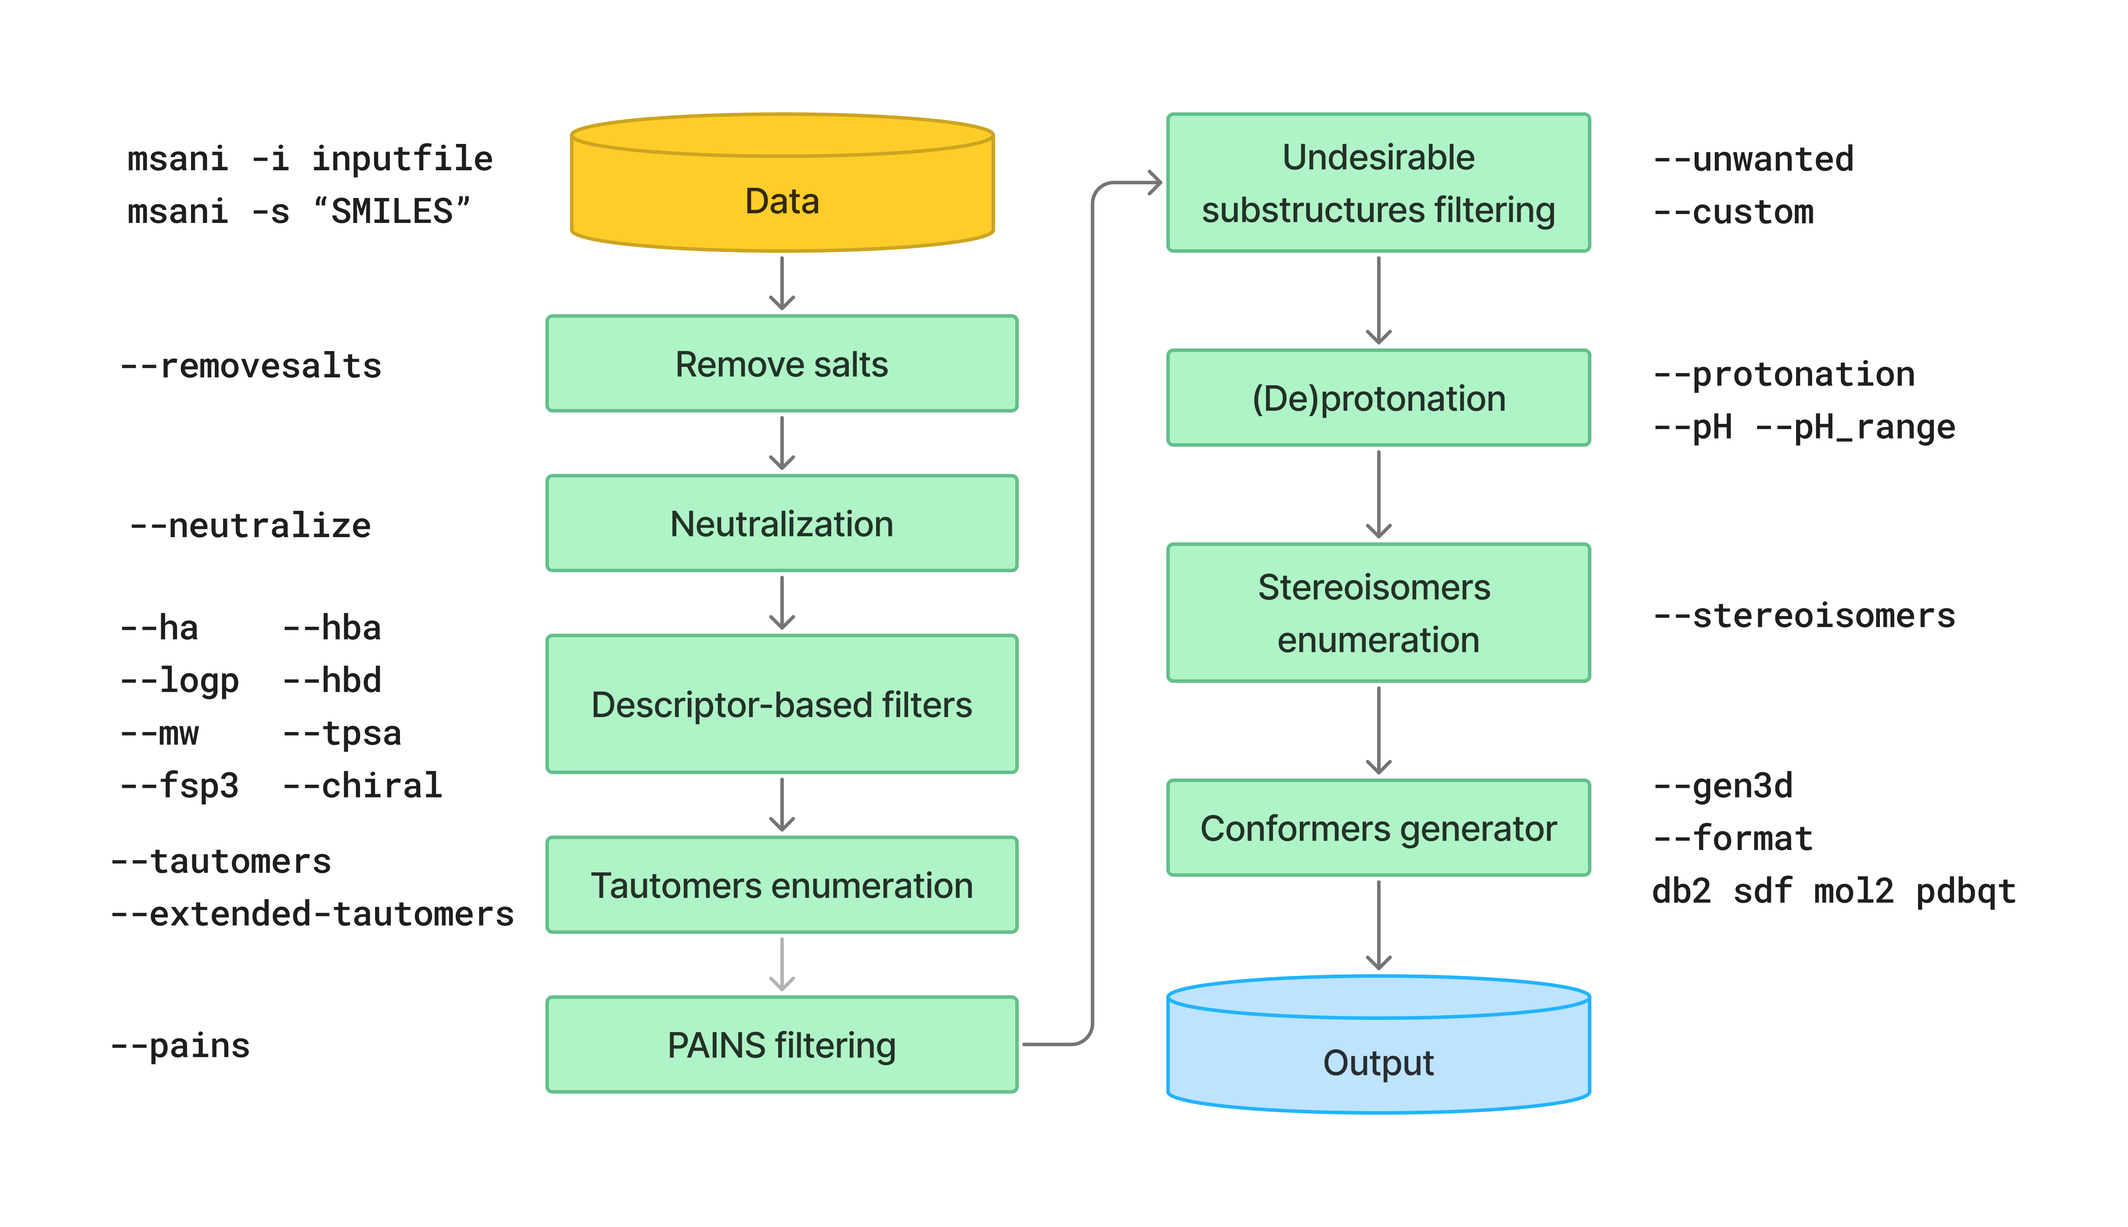
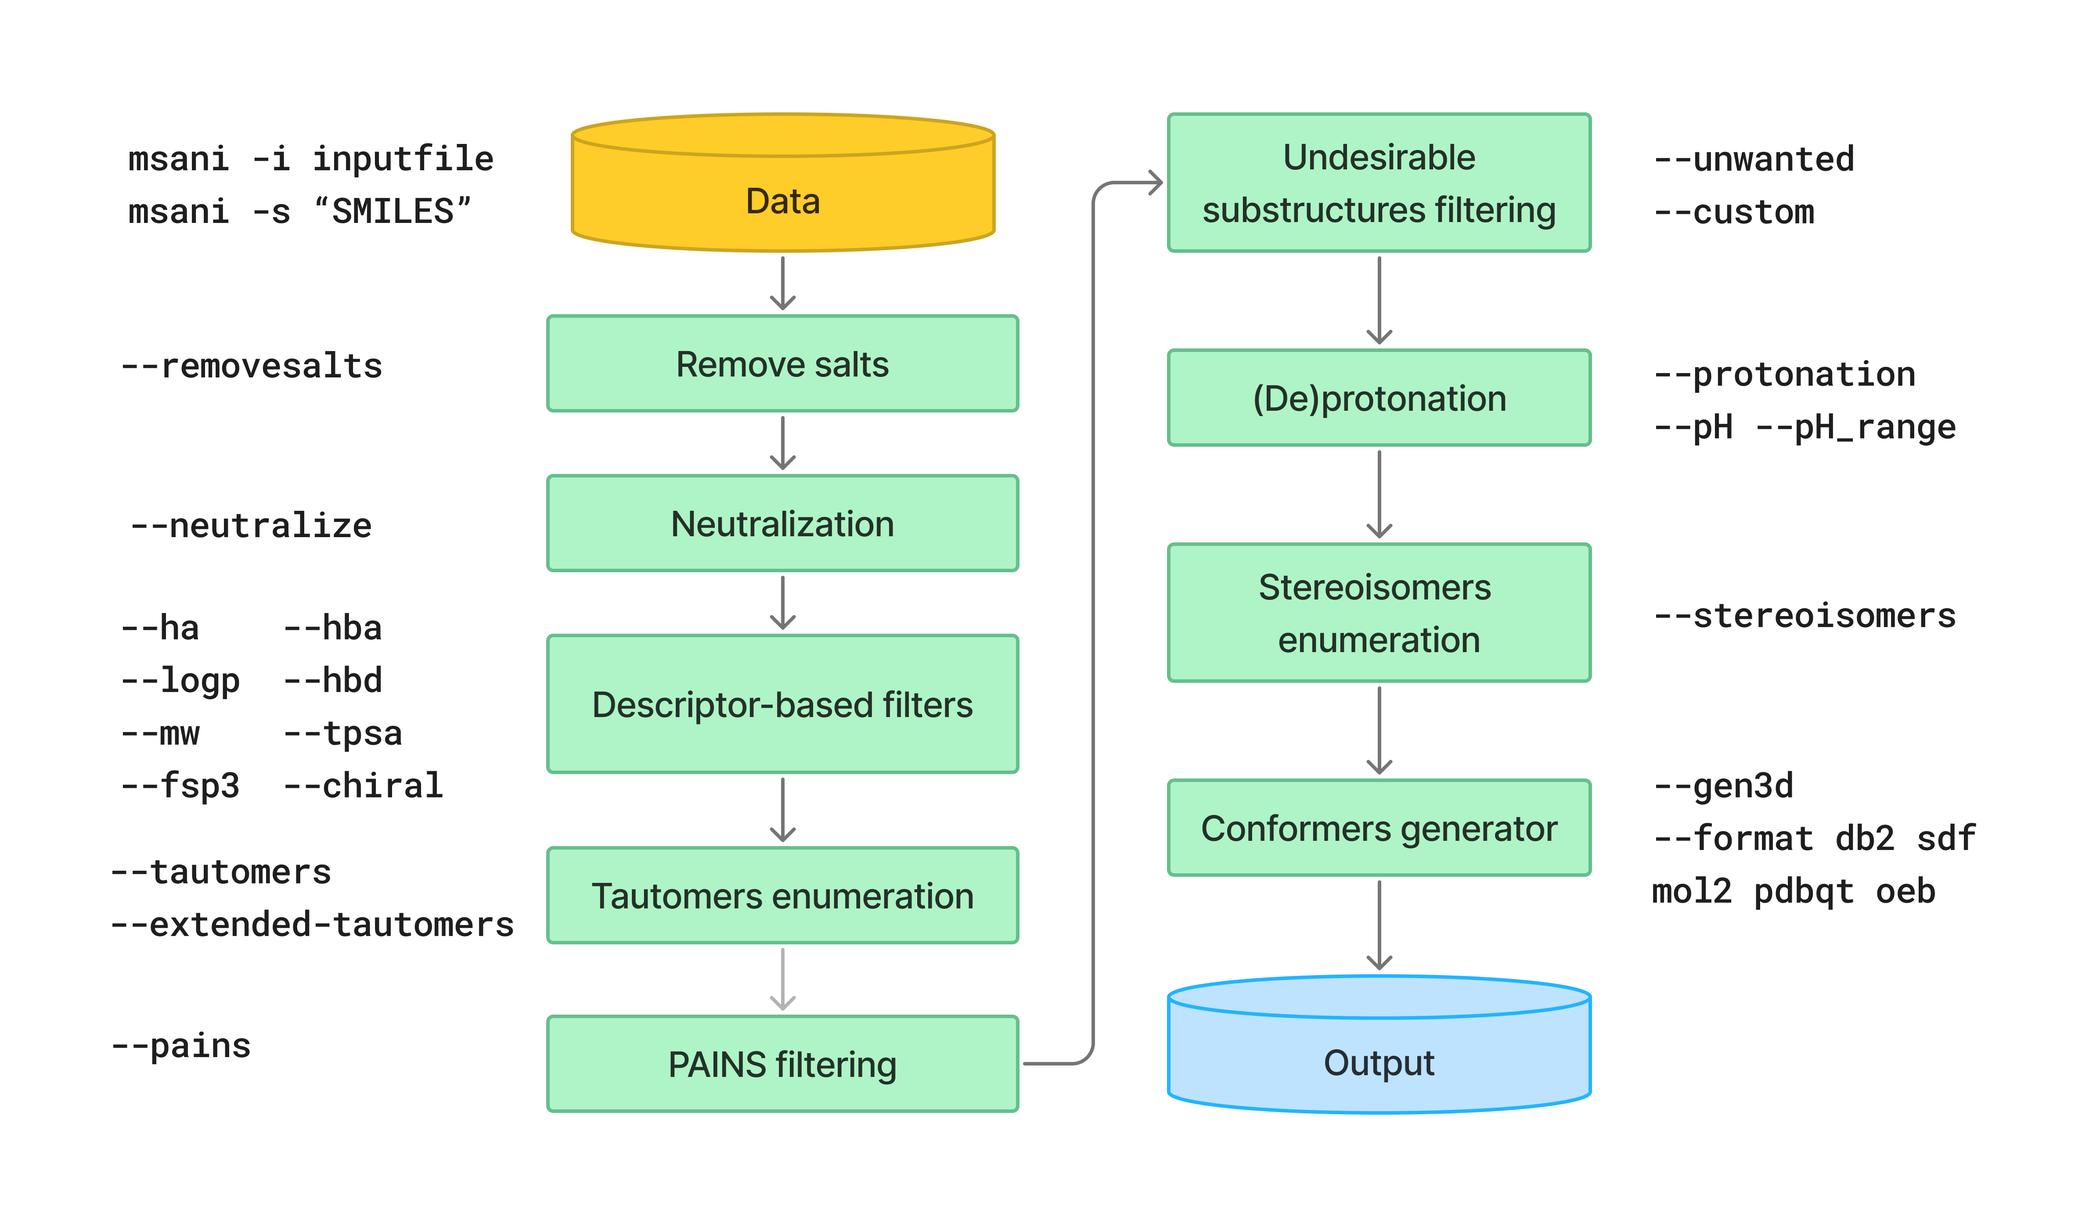
docs: update README and documentation for OpenEye support and new output formats. Update new protonation rules

diff --git a/msani/conformers/oebwriter.py b/msani/conformers/oebwriter.py
@@ -3,9 +3,9 @@
 Why this exists
 ---------------
 MolSanitizer already covers db2 (UCSF DOCK), pdbqt (AutoDock/Vina) and the
-generic sdf/mol2 formats. The one docking format still missing is OpenEye's
-binary .oeb.gz, which is what FRED and HYBRID read fastest. Adding it means a
-single msani pass can feed DOCK, AutoDock/Vina and OpenEye docking from the
+generic sdf/mol2 formats. This writer adds OpenEye's binary .oeb.gz for
+FRED and HYBRID, so a single msani pass can feed DOCK, AutoDock/Vina and
+OpenEye docking from the
 same sanitized library, with no per-user conversion step in between.
 
 What it does
@@ -27,8 +27,9 @@ Output layout
                       what FRED and HYBRID take as their database (the same
                       relation db2.tgz has to db2)
 
-Either way the ring-conformer groups of a molecule are merged into a single
-OEMol, so every ligand is one record and docks to one result.
+In both formats, compatible ring-conformer groups are merged into a single
+OEMol. Groups that fail the atom-count or atomic-number-order checks are kept
+as separate records.
 
 Licensing
 ---------

diff --git a/msani/conformers/conformers.py b/msani/conformers/conformers.py
@@ -1154,8 +1154,8 @@ class ConformerGenerator:
         """
         Write the conformers as ONE multi-conformer OpenEye OEMol.
 
-        The ring-conformer groups are merged, so the molecule is a single record
-        and FRED/HYBRID dock it to a single result. Needs the optional OpenEye
+        Compatible ring-conformer groups are merged into a single record. Groups
+        that fail the writer's compatibility checks remain separate records. Needs the optional OpenEye
         toolkits and a licence (OE_LICENSE).
 
         Args:

diff --git a/docs/source/usage.rst b/docs/source/usage.rst
@@ -102,7 +102,7 @@ Help message
 
     usage: msani [--input_files INPUT_FILES [INPUT_FILES ...]] [--input_list INPUT_LIST] [--smiles SMILES [SMILES ...]] [--extended] [--prefix PREFIX] [--synthon] [--removesalts] [--create_custom] [--custom CUSTOM]
                 [--unwanted [{all,regular,special,optional} ...]] [--pains] [--neutralize | --no-neutralize | -neu] [--stereoisomers | --no-stereoisomers | -st] [--max_isomers MAX_ISOMERS] [--stereo_timeout STEREO_TIMEOUT] [--tautomers]
-                [--extended-tautomers] [--protonation] [--pH PH] [--pH_range PH_RANGE] [--standardize] [--gen3d] [--format [{db2,db2.tgz,pdbqt,sdf,mol2} ...]] [--method {rdkit,obabel,corina}] [--corinaPath CORINAPATH]
+                [--extended-tautomers] [--protonation] [--pH PH] [--pH_range PH_RANGE] [--standardize] [--gen3d] [--format [{db2,db2.tgz,pdbqt,sdf,mol2,oeb,oeb.lib} ...]] [--method {rdkit,obabel,corina}] [--corinaPath CORINAPATH]
                 [--numconfs NUMCONFS] [--timeout TIMEOUT] [--energywindow ENERGYWINDOW] [--nringconfs NRINGCONFS] [--mode {fixed,random,ignoretorlib}] [--allowNonring] [--rmsd RMSD] [--config CONFIG] [--create_config] [--lazy]
                 [--numcores NUMCORES] [--help] [--help_advanced] [--version]
 
@@ -156,7 +156,9 @@ Help message
     Generate 3D conformers options:
     --gen3d, -3d          Generate 3D conformers
     --format, -f          Output file format. Multiple formats simultaneously supported.
-                            (Default: db2.tgz - Options: sdf, db2, db2.tgz, mol2, pdbqt.)
+                            (Default: db2.tgz - Options: sdf, db2, db2.tgz, mol2, pdbqt, oeb, oeb.lib.)
+                            oeb: one .oeb.gz per molecule; oeb.lib: one library per input file.
+                            Both need the optional OpenEye toolkits and OE_LICENSE.
     --method, -m          Embedding method (default: rdkit - options: rdkit, obabel, corina)
     --corinaPath          Path to the CORINA executable 
     --numconfs, -nconfs   Maximum number of conformers to generate (default: 2000)
@@ -365,7 +367,9 @@ The following supported flags:
     Generate 3D conformers options:
     --gen3d, -3d          Generate 3D conformers
     --format, -f          Output file format. Multiple formats simultaneously supported.
-                            (Default: db2.tgz - Options: sdf, db2, db2.tgz, mol2, pdbqt.)
+                            (Default: db2.tgz - Options: sdf, db2, db2.tgz, mol2, pdbqt, oeb, oeb.lib.)
+                            oeb: one .oeb.gz per molecule; oeb.lib: one library per input file.
+                            Both need the optional OpenEye toolkits and OE_LICENSE.
     --method, -m          Embedding method (default: rdkit - options: rdkit, obabel, corina)
     --numconfs, -nconfs   Maximum number of conformers to generate (default: 2000)
     --timeout, -to        Timeout for the initial embedding for each entry before using OpenBabel
@@ -395,7 +399,12 @@ Three sampling modes are supported (``--mode`` or ``-mode`` flag):
 * ignoretorlib: the program will ignore the TorsionLibrary and sample every 30 degrees.
 
 
-Multiple output formats are now supported, including DB2, PDBQT, SDF, and MOL2. The default output format is DB2, which could be modified by the ``--format`` or ``-f`` flag. Multiple formats at the same time is supported.
+Supported output formats are ``db2``, ``db2.tgz``, ``pdbqt``, ``sdf``, ``mol2``,
+``oeb``, and ``oeb.lib``. The default is the compressed DB2 archive
+``db2.tgz``. Select one or more formats with ``--format`` or ``-f``.
+PDBQT requires the optional Meeko dependencies; both OEB formats require
+the optional OpenEye toolkits and a valid licence (see :doc:`installation`).
+See :doc:`outputs` for OEB record grouping, file naming, and restart behavior.
 
 For DB2 generation, AMSOLcpp assigns desolvation penalties and partial charges
 directly from the in-memory RDKit molecule. These values are passed directly to

diff --git a/docs/source/outputs.rst b/docs/source/outputs.rst
@@ -23,6 +23,10 @@ Outputs are written relative to the working directory. For a plain input named
        Multiple ring conformations may add an ``.nr`` suffix.
    * - ``db2/example.db2.tgz``
      - DB2 archive when ``--format db2.tgz`` is selected (the default 3D format).
+   * - ``oeb/<molecule ID>.oeb.gz``
+     - Per-molecule multi-conformer output with ``--format oeb``.
+   * - ``oeb/example.oeb.gz``
+     - Multi-molecule library with ``--format oeb.lib``.
    * - ``msani.log``
      - Execution log; ``--prefix run1`` changes the log name to ``run1.log``.
    * - ``msani_error.err``
@@ -39,6 +43,23 @@ Tautomer/protomer expansion appends underscore indices, for example ``mol_1``
 and ``mol_2``. Stereoisomer enumeration appends dot indices, such as ``mol_1.1``
 and ``mol_1.2``. Larger expansions use zero-padded indices. Use unique input IDs
 so per-molecule files do not collide, and keep the input to trace derived IDs.
+
+OpenEye records and naming
+--------------------------
+
+Both OEB formats export sampled conformers. Ring-conformer groups are normally
+merged into one multi-conformer ``OEMol`` per prepared molecule, titled with
+its identifier, rather than separate records for each conformer. Groups that
+fail the writer's atom-count or atomic-number-order checks are retained as
+separate records. Distinct prepared tautomers, protomers, and stereoisomers
+remain separate molecules.
+
+The library filename uses the input basename with its final extension removed:
+``example.smi`` produces ``oeb/example.oeb.gz`` and ``example.smi.gz`` produces
+``oeb/example.smi.oeb.gz``. ``--prefix`` does not rename this library.
+When requesting both ``oeb`` and ``oeb.lib``, ensure no prepared molecule ID
+matches that input basename: both formats use the same directory and extension,
+so their files would collide. Use separate working directories if necessary.
 
 Rejected and failed molecules
 -----------------------------
@@ -61,6 +82,10 @@ Common problems
   when appropriate for your project.
 * **Missing PDBQT output:** install ``molsanitizer[pdbqt]`` in the environment
   running the command and inspect the molecule's error message.
+* **Missing OEB output:** install ``molsanitizer[oe]`` in the environment
+  running the command and set ``OE_LICENSE`` to a valid licence file. Missing
+  toolkits and an unlicensed OEChem installation produce distinct errors.
+  Inspect the execution log and ``msani_error.err`` for details.
 * **Embedding timeout:** ``--timeout`` is measured in minutes (default 2).
   When RDKit embedding times out, MolSanitizer tries Open Babel. If Open Babel
   is unavailable or the fallback fails, the reason is recorded and processing
@@ -83,6 +108,20 @@ DB2 members and skip their molecule IDs. This supports restarting interrupted
 work with the same inputs and settings. An unreadable archive is logged and
 processing starts fresh. Use a separate directory for a new preparation rather
 than reusing an old archive with changed settings.
+
+For file input with ``oeb.lib``, an existing library is moved aside and its
+records are copied back before new molecules are added. This retains records
+across input chunks and supports reruns with the same input and settings.
+Restored molecule titles are used to avoid adding those molecules again; use
+unique IDs. With only ``oeb.lib`` selected, restored molecules skip conformer
+generation. With other formats selected, they may still be processed for those
+outputs. This is not a guarantee of recovery from a corrupt or partially
+written library; keep a backup of valuable output before retrying.
+
+When ``db2.tgz`` and ``oeb.lib`` are requested together, IDs already restored
+from the DB2 archive skip all processing, including OEB output. A rerun therefore
+does not repair an OEB library missing those IDs. Regenerate in a fresh directory
+if the two outputs are inconsistent.
 
 SLURM batch recovery
 --------------------

diff --git a/README.md b/README.md
@@ -1,9 +1,9 @@
 # MolSanitizer - A package to prepare SMILES databases
-[![python](https://img.shields.io/badge/python-v3.10--3.12-blue)]()
+[![python](https://img.shields.io/badge/python-v3.10--3.14-blue)]()
 [![anaconda](https://img.shields.io/badge/Anaconda.org-2.1.0-green.svg?style=flat-square)](https://docs.anaconda.com/anaconda/install/index.html)
 [![Documentation](https://img.shields.io/badge/documentations-orange)](https://msani.readthedocs.io/)
 ![GitHub forks](https://img.shields.io/github/forks/:user/:repo)
-[![license](https://img.shields.io/badge/license-GPLv2-yellow)](LICENSE)
+[![license](https://img.shields.io/badge/license-Apache2-yellow)](LICENSE)
 
 
 MolSanitizer is a package for preparation (remove salts, stereoisomers enumeration, protonation, ...) and filtering undesirable substructures (PAINS, reactive functional groups, ...) for drug discovery projects.
@@ -29,12 +29,22 @@ Meeko is optional and is needed only for PDBQT output. Install it with:
 The OpenEye toolkits are optional and are needed only for OEB output, the
 multi-conformer format OpenEye docking (FRED/HYBRID) reads directly. `--format
 oeb` writes one `.oeb.gz` per molecule; `--format oeb.lib` writes one `.oeb.gz`
-library per input file, ready to be used as a docking database. Either way each
-molecule is a single record carrying all of its conformers. Install the extra
+library per input file, ready to be used as a docking database. Both formats
+normally merge each molecule's ring-conformer groups into one
+multi-conformer record; groups that fail the writer's compatibility checks
+remain separate records. Install the extra
 and point OE_LICENSE at your own licence file:
 
     pip install -e "MolSanitizer[oe]"
     export OE_LICENSE=/path/to/oe_license.txt
+
+For example, generate a docking library with:
+
+    msani -i example.smi --gen3d --format oeb.lib
+
+This writes `oeb/example.oeb.gz`; `--format oeb` instead writes
+`oeb/<molecule ID>.oeb.gz`. See the [output documentation](https://msani.readthedocs.io/en/latest/outputs.html)
+for restart behavior and naming constraints when combining these formats.
 
 Open Babel is also optional. It is used only when selected as the embedding
 method or as a fallback after an RDKit embedding timeout. If that fallback is

diff --git a/docs/source/python.rst b/docs/source/python.rst
@@ -142,7 +142,7 @@ ConformerGenerator
 
 The **ConformerGenerator** class is responsible for generating conformers of molecules. It provides methods to generate conformers from a SMILES string, from RDKit Mol object, or a DataFrame. The conformer generation process can be customized by specifying the number of conformers to generate and the conformer generation method to use.
 
-Two main steps are involved, first, initial embedding of the molecule (generate 3D), then torsional sampling. Finally, the conformers can be saved in various formats such as PDBQT, SDF, MOL2, or DB2.
+Two main steps are involved, first, initial embedding of the molecule (generate 3D), then torsional sampling. Finally, the conformers can be saved in various formats such as PDBQT, SDF, MOL2, DB2, or OEB.
 
 .. code-block:: python
 
@@ -165,3 +165,21 @@ Two main steps are involved, first, initial embedding of the molecule (generate 
     confgen.to_sdf()
     confgen.to_mol2()
     confgen.to_db2()
+
+
+With the optional OpenEye toolkits installed and licensed, save the sampled
+ensemble as OEB. Create the output directory when using the Python API directly:
+
+.. code-block:: python
+
+    from pathlib import Path
+    from contextlib import closing
+    from msani.conformers import oebwriter
+
+    Path("oeb").mkdir(exist_ok=True)
+    confgen.to_oeb()  # oeb/test.oeb.gz
+
+    # Open once, then append each sampled ConformerGenerator to the library.
+    # Opening an existing file truncates it; this API does not resume a run.
+    with closing(oebwriter.open_oeb("oeb/library.oeb.gz")) as stream:
+        confgen.to_oeb(stream=stream)

diff --git a/docs/source/installation.rst b/docs/source/installation.rst
@@ -56,6 +56,10 @@ Optional dependencies
 - `Meeko <https://pypi.org/project/meeko/>`_ is required only for PDBQT output.
   Install it with ``pip install "molsanitizer[pdbqt]"``.
 
+- OpenEye toolkits are required only for ``--format oeb`` and
+  ``--format oeb.lib``. Install the ``oe`` extra and configure your own valid
+  OEChem licence as shown below. The licence is not included with MolSanitizer.
+
 - `Open Babel <https://openbabel.org/docs/dev/Installation/install.html>`_ is
   required only when ``obabel`` is selected as the embedding method or used as
   the fallback after an RDKit embedding timeout. If it is unavailable after a
@@ -79,6 +83,21 @@ In order to also generate PDBQT files, install the optional dependency Meeko:
 .. code-block:: console
 
    $ pip install "molsanitizer[pdbqt]"
+
+For OEB output, install the optional OpenEye toolkits and set the licence path
+(in a macOS/Linux shell):
+
+.. code-block:: console
+
+   $ pip install "molsanitizer[oe]"
+   $ export OE_LICENSE=/path/to/oe_license.txt
+
+For a source checkout, use ``pip install -e "MolSanitizer[oe]"`` instead.
+On Windows, set the ``OE_LICENSE`` environment variable to the licence path.
+To install both docking extras, use ``pip install "molsanitizer[pdbqt,oe]"``.
+The OpenEye toolkits have their own platform and Python compatibility
+requirements; MolSanitizer's supported version range does not guarantee
+availability of this optional dependency.
 
 From Conda-forge
 ^^^^^^^^^^^^^^^^^^

diff --git a/docs/source/index.rst b/docs/source/index.rst
@@ -4,7 +4,7 @@ MolSanitizer's documentation
 About MolSanitizer
 ******************
 
-**MolSanitizer (msani)** is a Python package for preparation (remove salts, tautomer standardization, stereoisomers enumeration, protonation) and filtering undesirable substructures (PAINS, reactive functional groups) for drug discovery projects. MolSanitizer is also capable of building DB2 files (for DOCK3.8) and PDBQT files (for AutoDock Vina) programs. Different conformational formats (SDF, Mol2) could also be generated by MolSanitizer.
+**MolSanitizer (msani)** is a Python package for preparation (remove salts, tautomer standardization, stereoisomers enumeration, protonation) and filtering undesirable substructures (PAINS, reactive functional groups) for drug discovery projects. MolSanitizer is also capable of building DB2 files (for DOCK3.8) and PDBQT files (for AutoDock Vina) programs. OpenEye OEB files for FRED/HYBRID and general conformer formats (SDF, MOL2) can also be generated. OEB output requires the optional OpenEye toolkits and a valid licence.
 
 Check out the :doc:`usage` section for further information, including
 how to :doc:`installation` the project.

diff --git a/docs/source/quickstart.rst b/docs/source/quickstart.rst
@@ -57,5 +57,22 @@ Successful generation creates ``pdbqt/acetate.pdbqt`` and
 structure, with rotatable bonds for docking; it does not export the sampled
 SDF ensemble. To request both formats in one run, use ``--format sdf pdbqt``.
 
+Generate an OpenEye docking library
+----------------------------------
+
+Install the ``oe`` extra and configure ``OE_LICENSE`` as described in
+:doc:`installation`, then run:
+
+.. code-block:: console
+
+    $ msani -i example_clean.smi --gen3d --format oeb.lib --numconfs 20
+
+This writes ``oeb/example_clean.oeb.gz`` for use as a FRED/HYBRID docking
+library. Each prepared molecule normally has one multi-conformer record,
+combining its sampled ring-conformer groups. To write individual files such as
+``oeb/acetate.oeb.gz`` instead, select ``--format oeb``. Both formats trigger
+conformer sampling. You can export an SDF ensemble alongside the library with
+``--format sdf oeb.lib``.
+
 See :doc:`usage` for filtering and other processing options, and :doc:`outputs`
 for logs, output naming, and recovery when a molecule fails.

diff --git a/docs/source/config.rst b/docs/source/config.rst
@@ -183,7 +183,7 @@ The following arguments accept multiple values and can be specified as a list in
 
 - input_files:  list of input files
 - unwanted: choice of category for unwanted substructures filtering (options: all, regular, special, optional)
-- format: 3D output formats (options: db2.tgz, db2, mol2, pdbqt, sdf)
+- format: 3D output formats (options: db2.tgz, db2, mol2, pdbqt, sdf, oeb, oeb.lib)
 
 These arguments can be specified as a list in the config file in the Python format:
 

diff --git a/docs/source/introduction.rst b/docs/source/introduction.rst
@@ -201,6 +201,12 @@ The following substructures are considered for (de)protonation:
    .. image:: _static/SI-PROTO-RULES_p3.png
       :width: 600px
       :align: center
+   .. image:: _static/SI-PROTO-RULES_p4.png
+      :width: 600px
+      :align: center
+   .. image:: _static/SI-PROTO-RULES_p5.png
+      :width: 600px
+      :align: center
 
 
 3. Stereoisomerism
